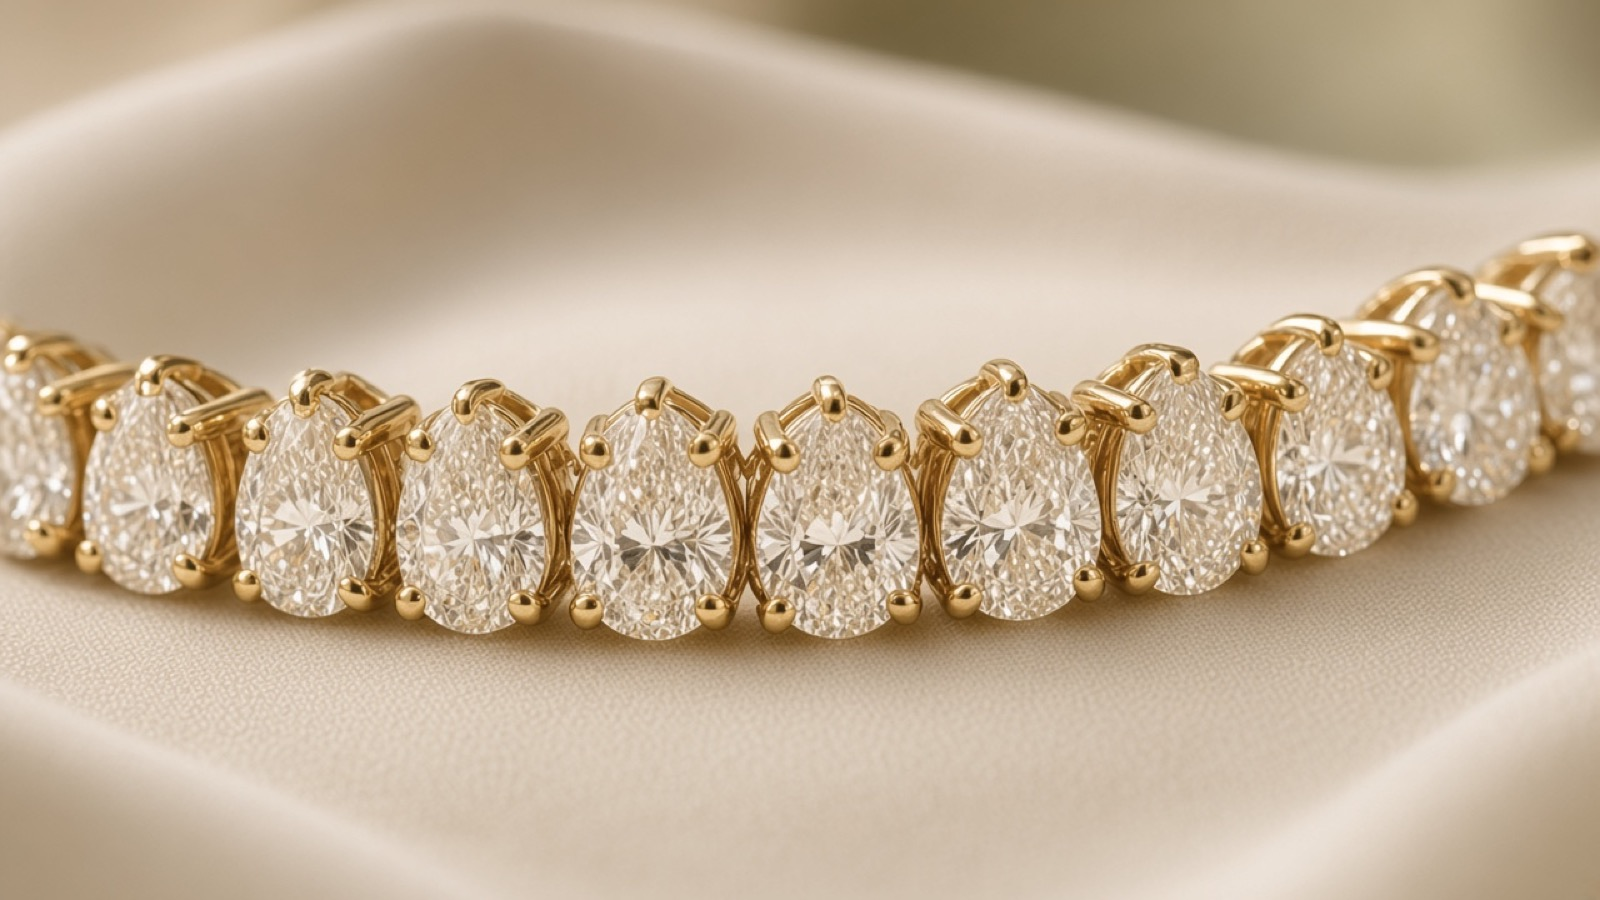
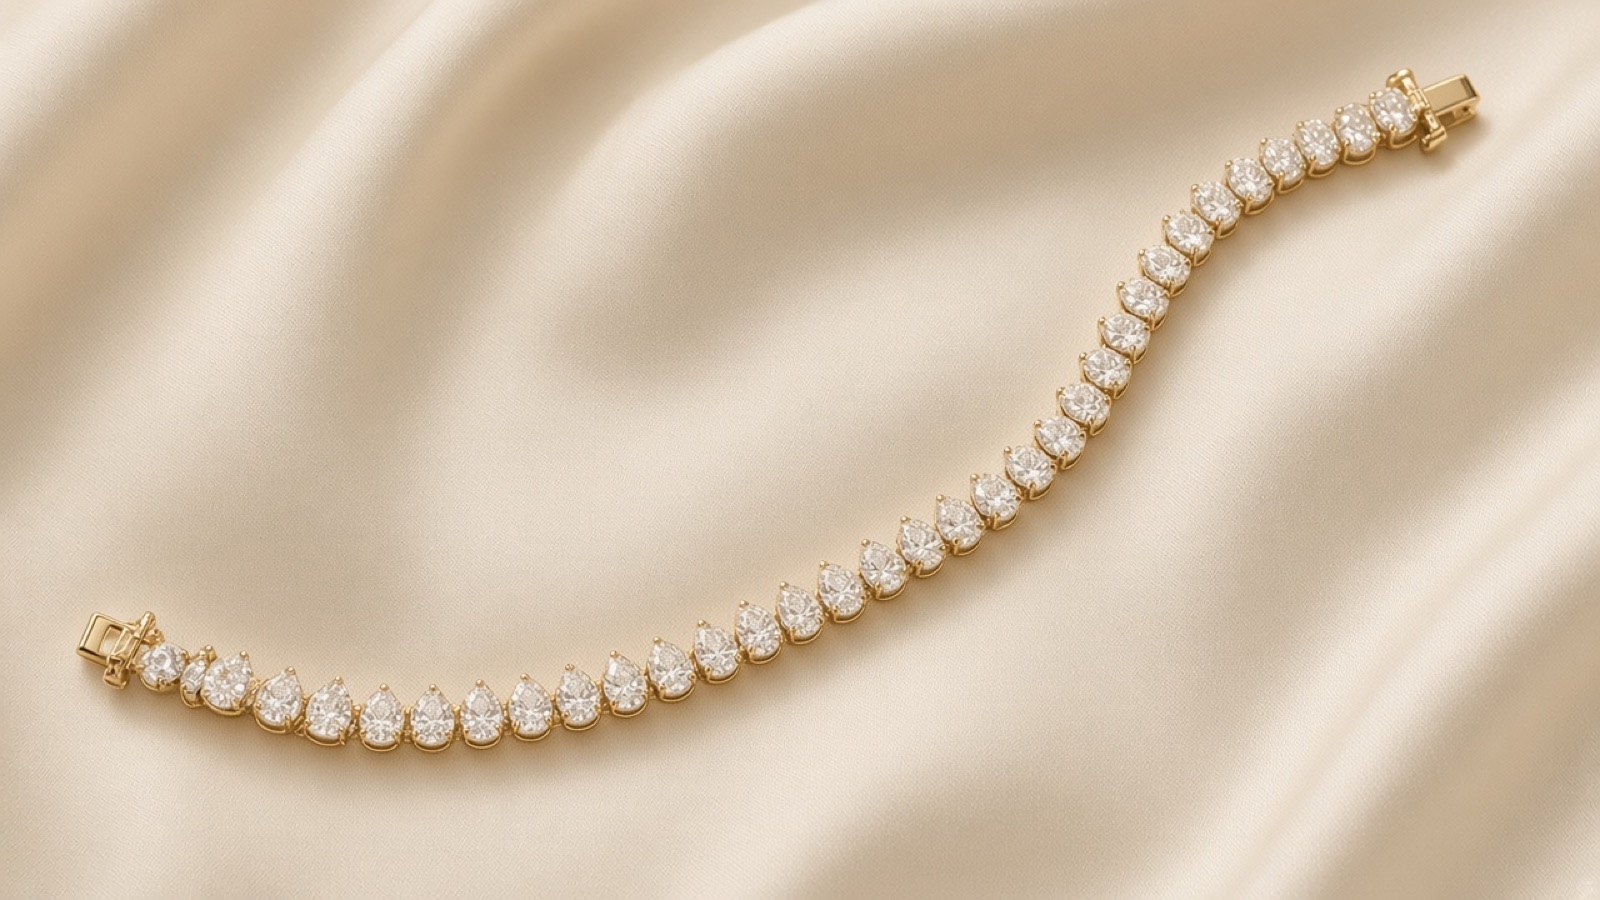
Widen pear tennis shots and add heart-link bracelet.
Pull pear catalog frames back with alternating tip orientation, and add matching cream-palette heart bracelet images from inventory (tags removed).

diff --git a/src/data/catalog.ts b/src/data/catalog.ts
@@ -84,14 +84,28 @@ export const catalogPieces: CatalogPiece[] = [
     title: 'Pear tennis bracelet',
     line: 'bracelets',
     image: 'images/bracelet.jpg',
-    alt: 'Yellow gold pear-cut diamond tennis bracelet on cream silk',
+    alt: 'Full yellow gold pear-cut diamond tennis bracelet with alternating pears on cream silk',
   },
   {
-    id: 'bracelet-pear-detail',
-    title: 'Pear tennis — detail',
+    id: 'bracelet-pear-angle',
+    title: 'Pear tennis — layout',
     line: 'bracelets',
     image: 'images/bracelet-pear-detail.jpg',
-    alt: 'Close-up of pear-cut diamonds in yellow gold tennis bracelet',
+    alt: 'Alternating pear-cut diamond tennis bracelet laid on cream silk',
+  },
+  {
+    id: 'bracelet-heart',
+    title: 'Heart link bracelet',
+    line: 'bracelets',
+    image: 'images/bracelet-heart.jpg',
+    alt: 'Full rose gold heart-link diamond bracelet with pavé halos on cream silk',
+  },
+  {
+    id: 'bracelet-heart-angle',
+    title: 'Heart link — layout',
+    line: 'bracelets',
+    image: 'images/bracelet-heart-detail.jpg',
+    alt: 'Heart-link diamond bracelet section on cream silk',
   },
   {
     id: 'earrings',
